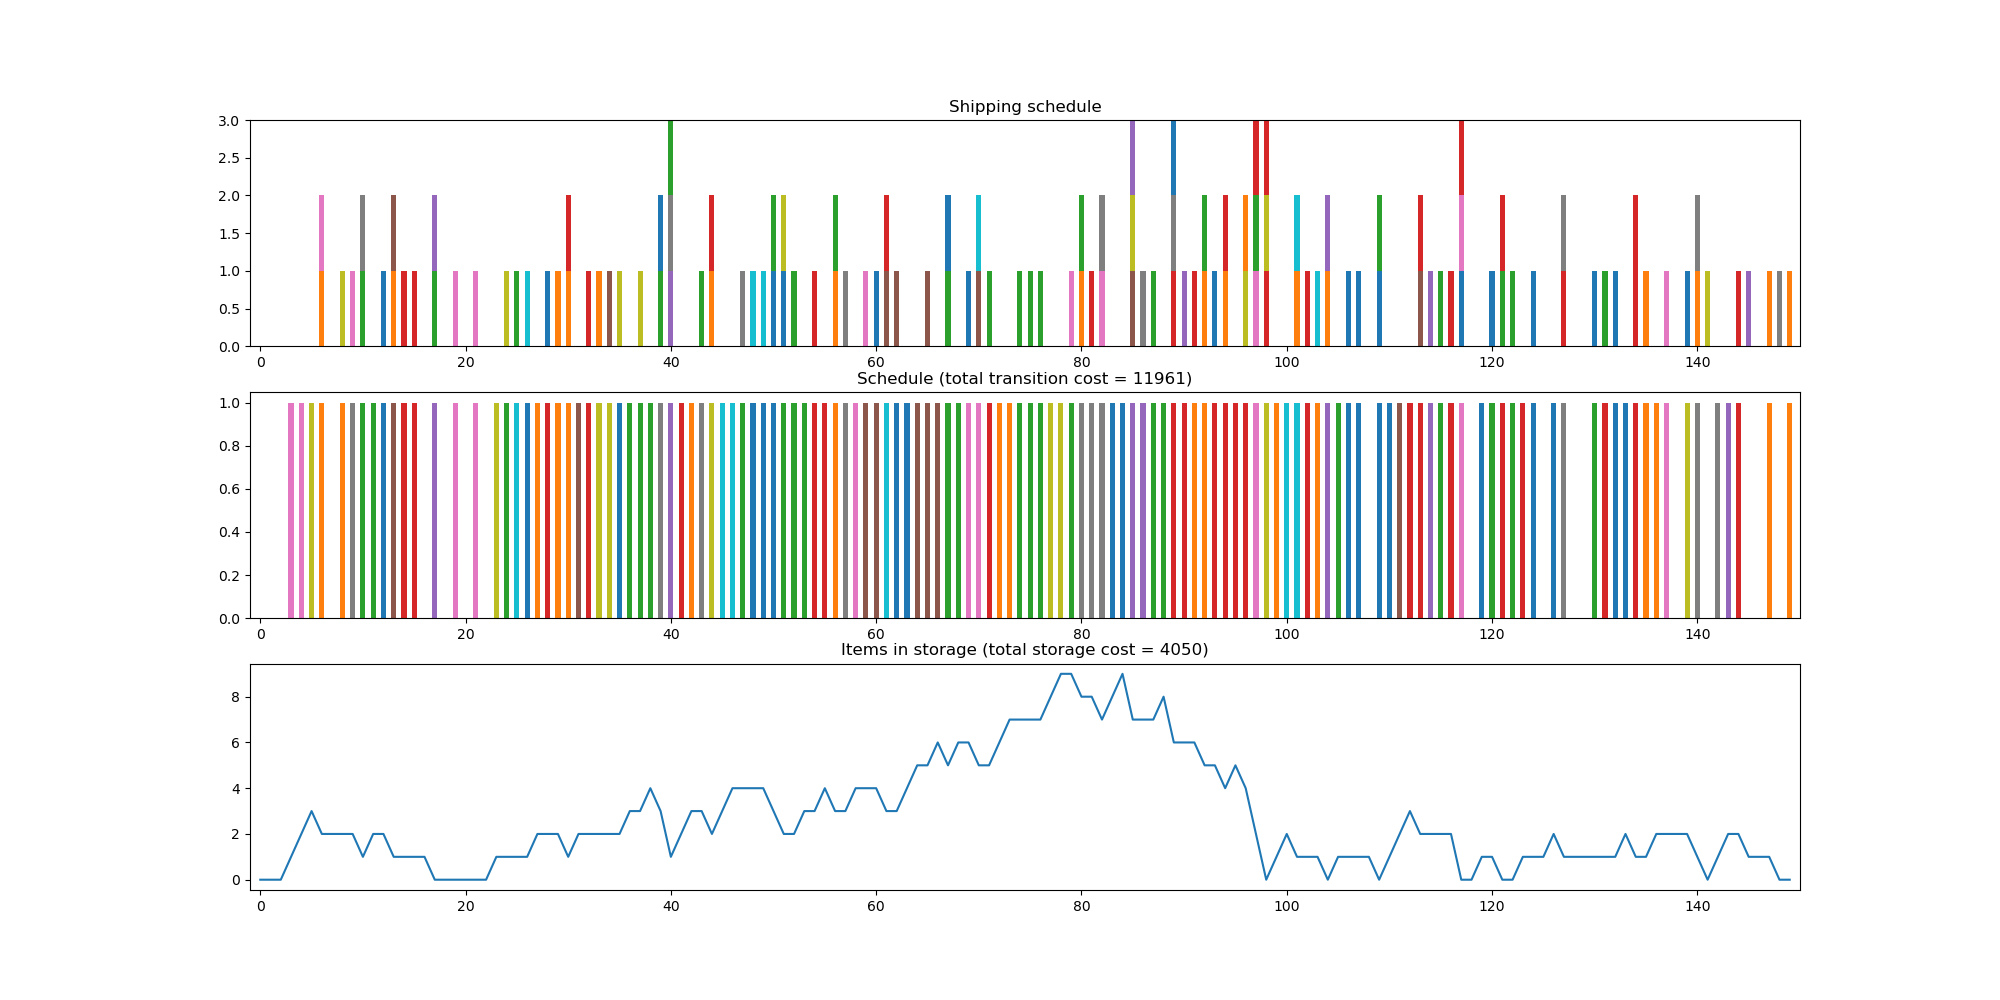
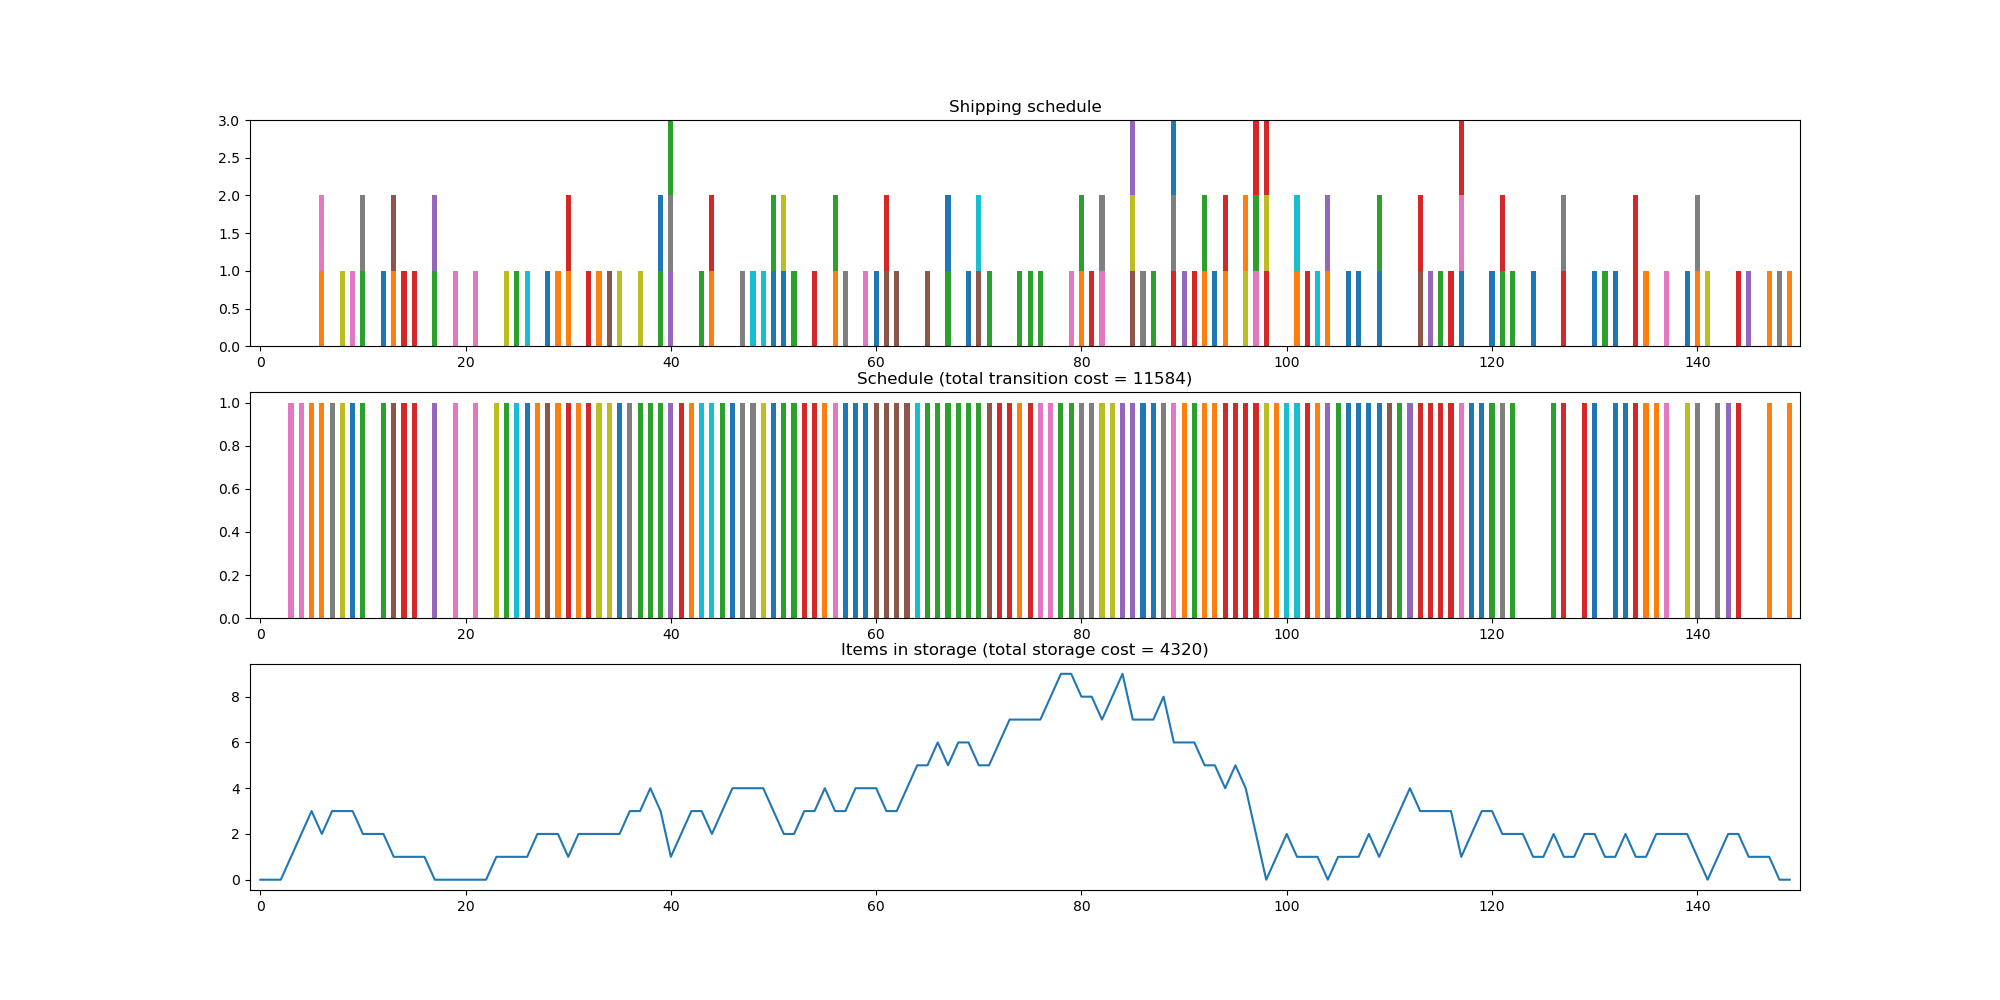
ALNS

diff --git a/code/solver.py b/code/solver.py
@@ -56,7 +56,7 @@ def hill_climbing(pyg):
 
 
 #######################################
-# DESTRCTION FUNCTIONS
+# DESTRUCTION FUNCTIONS
 #######################################
 
 def destroy_random(s,pyg,nb_destroyed_var):
@@ -68,7 +68,8 @@ def destroy_random(s,pyg,nb_destroyed_var):
     :return: a tuple with the destroyed solution, the production types that were removed and
     the indexes where the were removed in the list
     """
-    l = len(s) # nb of days
+    sp = copy.deepcopy(s)
+    l = len(sp) # nb of days
     items_removed = []
     index_of_items = []
     for _ in range(nb_destroyed_var):
@@ -76,9 +77,9 @@ def destroy_random(s,pyg,nb_destroyed_var):
         while i in index_of_items: # no 2 same days
             i = random.randint(0,l-1)
         index_of_items.append(i)
-        items_removed.append(s[i])
-        s[i] = -1 # no production on that day
-    return s,items_removed,index_of_items
+        items_removed.append(sp[i])
+        sp[i] = -1 # no production on that day
+    return sp,items_removed,index_of_items
 
 def destroy_zone(s,pyg,nb_destroyed_var):
     """
@@ -94,7 +95,7 @@ def destroy_zone(s,pyg,nb_destroyed_var):
     items_removed = []
     index_of_items = []
     center = random.randint(0,l-1) # for ND dépendance
-    range_from_center = nb_destroyed_var + 4
+    range_from_center = nb_destroyed_var
     for _ in range(nb_destroyed_var):
 
         i = random.randint(max(0,center - range_from_center), min(l-1, center + range_from_center)) 
@@ -122,7 +123,7 @@ def destroy_zone_large(s,pyg,nb_destroyed_var):
     items_removed = []
     index_of_items = []
     center = random.randint(0,l-1) # for ND dépendance
-    range_from_center = nb_destroyed_var + 15
+    range_from_center = nb_destroyed_var + 7
     for _ in range(nb_destroyed_var):
 
         i = random.randint(max(0,center - range_from_center), min(l-1, center + range_from_center)) 
@@ -140,7 +141,7 @@ def destroy_zone_large(s,pyg,nb_destroyed_var):
 # CONSTRUCTION FUNCTIONS
 #######################################
 
-def reconstruct_cp_zone(sp,pyg,items_removed,index_of_items):
+def reconstruct_cp_zone(sp,s_init,pyg,items_removed,index_of_items):
     """
     Find the best reconstruction possible by testing all possibilities for all the items removed placed at 
     all days where there is place in a time frame
@@ -150,12 +151,10 @@ def reconstruct_cp_zone(sp,pyg,items_removed,index_of_items):
     :param index_of_items: list of the indexes of where the items were taken
     :return: best valid solution found
     """
-    best_s = None
-    best_score = 10e8
-    # for new_items in itertools.permutations(items_removed):
-
-    margin = 2
-    range_min, range_max = min(index_of_items) - margin, max(index_of_items) + margin
+    best_s = s_init
+    best_score = 1e10
+    
+    range_min, range_max = min(index_of_items), max(index_of_items)
     no_production_days = [i for i,t in enumerate(sp) if t == -1 and i >= range_min and i <= range_max]
     for comb in itertools.combinations(no_production_days,len(index_of_items)):
         for new_index in itertools.permutations(comb):
@@ -169,7 +168,7 @@ def reconstruct_cp_zone(sp,pyg,items_removed,index_of_items):
                     best_s = s
     return best_s
 
-def reconstruct_cp_zone_large(sp,pyg,items_removed,index_of_items):
+def reconstruct_cp_zone_large(sp,s_init,pyg,items_removed,index_of_items):
     """
     Find the best reconstruction possible by testing all possibilities for all the items removed placed at 
     all days where there is place in a bigger time frame
@@ -179,11 +178,11 @@ def reconstruct_cp_zone_large(sp,pyg,items_removed,index_of_items):
     :param index_of_items: list of the indexes of where the items were taken
     :return: best valid solution found
     """
-    best_s = None
-    best_score = 10e8
+    best_s = s_init
+    best_score = 1e10
     # for new_items in itertools.permutations(items_removed):
 
-    margin = 20
+    margin = 7
     range_min, range_max = min(index_of_items) - margin, max(index_of_items) + margin
     no_production_days = [i for i,t in enumerate(sp) if t == -1 and i >= range_min and i <= range_max]
     for comb in itertools.combinations(no_production_days,len(index_of_items)):
@@ -198,7 +197,7 @@ def reconstruct_cp_zone_large(sp,pyg,items_removed,index_of_items):
                     best_s = s
     return best_s
 
-def reconstruct_random_1(sp,pyg,items_removed,index_of_items):
+def reconstruct_random_1(sp,s_init,pyg,items_removed,index_of_items):
     """
     returns one valid permutations taken by random for the removed items
     :param s: current solution of the problem
@@ -214,15 +213,28 @@ def reconstruct_random_1(sp,pyg,items_removed,index_of_items):
         permutations += list(itertools.permutations(comb))
 
     valid = False
+    start = time.time()
     while not valid:
         s = copy.deepcopy(sp)
         new_index = random.choice(permutations)
+        if time.time() - start > 3:
+            print("too long")
+            new_index = index_of_items
+            for i,index in enumerate(new_index):
+                s[index] = items_removed[i]
+            print("new")
+            print(s)
+            print(pyg.verify_solution(s,True))
+            print("old")
+            print(s_init)
+            print(pyg.verify_solution(s_init,True))
+            assert False
         for i,index in enumerate(new_index):
             s[index] = items_removed[i]
         valid = pyg.verify_solution(s)
     return s
 
-def reconstruct_random_many(sp,pyg,items_removed,index_of_items):
+def reconstruct_random_many(sp,s_init,pyg,items_removed,index_of_items):
     """
     Find the best reconstruction possible from 20 different permutations
     :param s: current solution of the problem
@@ -240,52 +252,59 @@ def reconstruct_random_many(sp,pyg,items_removed,index_of_items):
     for comb in itertools.combinations(no_production_days,len(index_of_items)):
         permutations += list(itertools.permutations(comb))
     
-    for new_items in random.sample(permutations,min(20,len(permutations))):
-        s = copy.deepcopy(sp)
-        for i,item in enumerate(new_items):
-            s[index_of_items[i]] = item
-        if pyg.verify_solution(s):
-            score = pyg.solution_total_cost(s)
-            if score < best_score:
-                best_score = score
-                best_s = s
+    # for new_items in random.sample(permutations,min(20,len(permutations))):
+    nb = 0
+    while nb < 20:
+        valid = False
+        start = time.time()
+        while not valid:
+            s = copy.deepcopy(sp)
+            new_index = random.choice(permutations)
+            if time.time() - start > 3:
+                print("too long")
+                new_index = index_of_items
+                for i,index in enumerate(new_index):
+                    s[index] = items_removed[i]
+                print("new")
+                print(s)
+                print(pyg.verify_solution(s,True))
+                print("old")
+                print(s_init)
+                print(pyg.verify_solution(s_init,True))
+                assert False
+            for i,index in enumerate(new_index):
+                s[index] = items_removed[i]
+            if pyg.verify_solution(s):
+                valid = True
+                nb += 1
+                score = pyg.solution_total_cost(s)
+                if score < best_score:
+                    best_score = score
+                    best_s = s
     return best_s
 
 #######################################
-# ACCEPTANCE FUNCTION
+# ALNS FUNCTIONS
 #######################################
 
-def acceptSolution(sp,s,pyg,T):
-    """
-    Acceptance of the new solution based on their score with temperature (simulated annealing)
-    :param sp: new solution proposed
-    :param s: current solution of the problem
-    :param pyg: object describing the input problem
-    :param T: Temperature of the model
-    :return: boolean. True means that we accept the new solution sp
-    """
-    fsp = pyg.solution_total_cost(sp)
-    fs = pyg.solution_total_cost(s)
-    delta = fsp - fs
-    return delta < 0 or random.random() < math.exp(-delta/T)
-
-#######################################
-# ALNS
-#######################################
+def update_weights(rho_m,rho_p,i_d,i_r,psi,lambda_w):
+    rho_m[i_d] = lambda_w*rho_m[i_d] + (1-lambda_w)*psi
+    rho_p[i_r] = lambda_w*rho_p[i_r] + (1-lambda_w)*psi
 
 def ALNS(pyg):
     # for restarts
-    best_s = None
-    best_f = 1e10
+    # best_s = None
+    # best_f = 1e10
 
     #########################
     # HYPERPARAMETRES
-    iterations = 10000
+    iterations = 2000
     nb_destroyed_var = 3
     temperature = 4
     alphaT = 0.8
     reheat = 5
     iterations_to_reheat = 150
+    lambda_w = 0.8
     #########################
 
     s,fs = solve_greedy(pyg)
@@ -299,28 +318,54 @@ def ALNS(pyg):
     rho_m = [1,1,1]
     omega_p = [reconstruct_cp_zone,reconstruct_cp_zone_large,reconstruct_random_1,reconstruct_random_many]
     rho_p = [1,1,1,1]
+    # W = [random.random() * 10 for _ in range(4)]
+    W = [30,17,10,1]
+    W = sorted(W,reverse=True) # w1 > w2 > w3 > w4
+    print("W",W)
 
     for k in range(iterations):
         if k%20 == 0:
             print(f"Iter {k}, best solution's cost : {pyg.solution_total_cost(star)}")
+            print('Rho -',rho_m)
+            print('Rho +',rho_p)
         if no_change_iter > iterations_to_reheat:
             print("REHEAT")
             s = star
             no_change_iter = 0
             temperature += reheat
         
-        sp,items_removed,index_of_items = destroy_zone(s,pyg,nb_destroyed_var)
-        # sp = reconstruct(s,pyg,items_removed,index_of_items)
-        sp = reconstruct_cp_zone(sp,pyg,items_removed,index_of_items)
-        if acceptSolution(sp,s,pyg,temperature): 
+        i_d = random.choices(list(range(len(rho_m))),rho_m)[0]
+        d = omega_m[i_d]
+        i_r = random.choices(list(range(len(rho_p))),rho_p)[0]
+        r = omega_p[i_r]
+
+        sp,items_removed,index_of_items = d(s,pyg,nb_destroyed_var)
+        sp = r(sp,s,pyg,items_removed,index_of_items)
+
+        # acceptation of the solution with Simulated Annealing
+        fsp = pyg.solution_total_cost(sp)
+        fs = pyg.solution_total_cost(s)
+        delta = fsp - fs
+        if delta < 0:
             s = sp
+            psi = W[1] # w2 if solution is better
+        elif random.random() < math.exp(-delta/T):
+            s = sp
+            psi = W[2] # w3 if solution is accepted but not better
         else: 
             no_change_iter += 1
-        fsp = pyg.solution_total_cost(sp)
-        if fsp < fstar:
+            psi = W[3] # w4 if solution is rejected
+        
+        if fsp < fstar: # check if sp is better    
             no_change_iter = 0
             star = sp
             fstar = fsp
+            psi = W[0] # w1 if solution is the best found yet
+
+        # if pyg.solution_total_cost(s) == fstar: 
+        #     psi = W[0] # w1 if solution is the best found yet
+        update_weights(rho_m,rho_p,i_d,i_r,psi,lambda_w) 
+
         temperature *= alphaT
     return star,pyg.solution_total_cost(star)
 
@@ -338,4 +383,4 @@ def solve_advance(pyg):
     # return solve_greedy(pygment)
 
     # return hill_climbing(pyg)
-    return LNS(pyg)
+    return ALNS(pyg)
